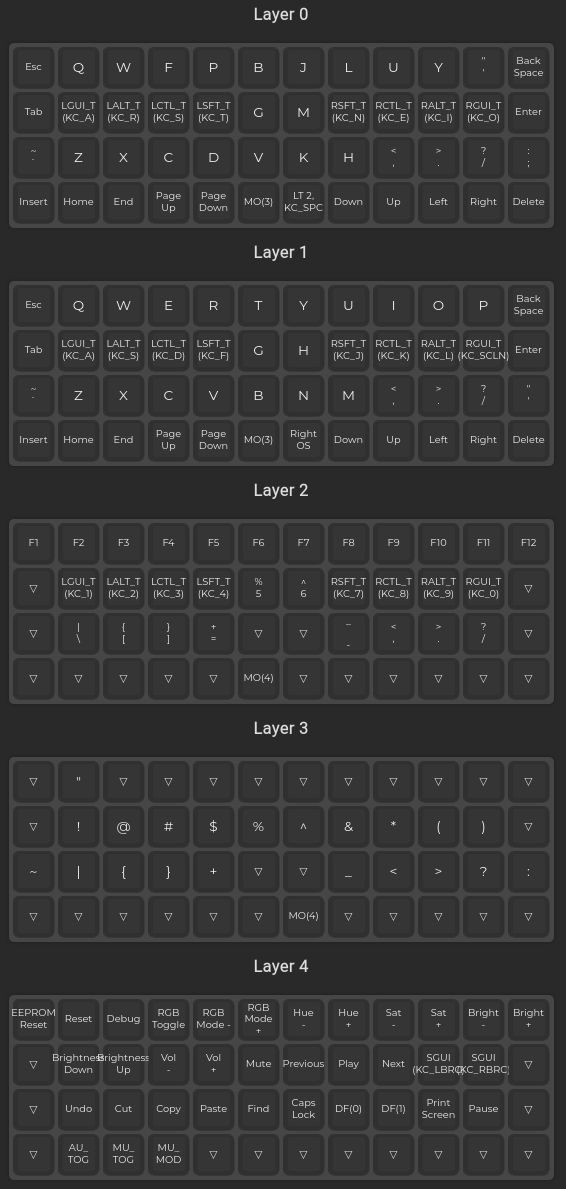
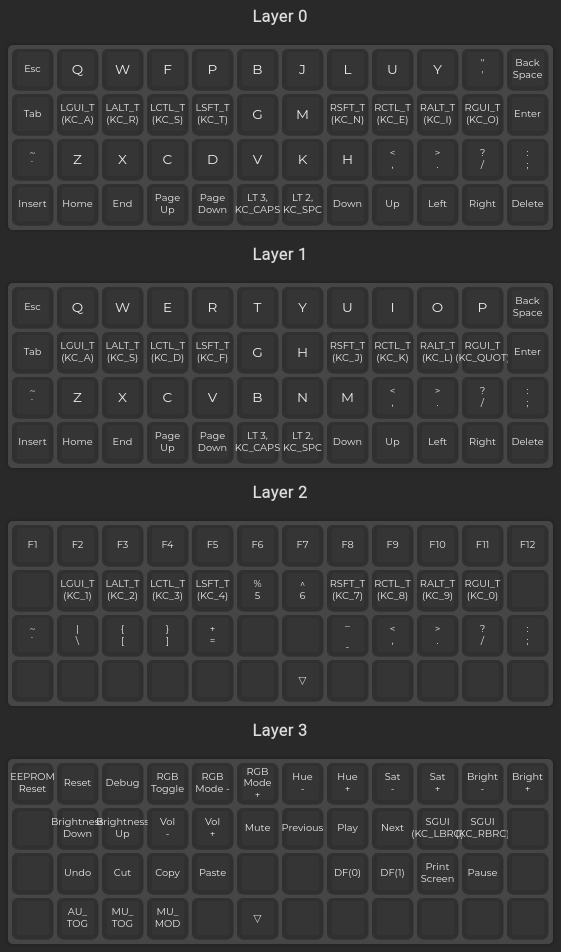
Single symbol/num layer
- Fixup caps lock location (awesome idea)

diff --git a/keymap.c b/keymap.c
@@ -7,9 +7,8 @@
  */
 
 const uint16_t PROGMEM keymaps[][MATRIX_ROWS][MATRIX_COLS] = {
-	[0] = LAYOUT_ortho_4x12(KC_ESC, KC_Q, KC_W, KC_F, KC_P, KC_B, KC_J, KC_L, KC_U, KC_Y, KC_QUOT, KC_BSPC, KC_TAB, LGUI_T(KC_A), LALT_T(KC_R), LCTL_T(KC_S), LSFT_T(KC_T), KC_G, KC_M, RSFT_T(KC_N), RCTL_T(KC_E), RALT_T(KC_I), RGUI_T(KC_O), KC_ENT, KC_GRV, KC_Z, KC_X, KC_C, KC_D, KC_V, KC_K, KC_H, KC_COMM, KC_DOT, KC_SLSH, KC_SCLN, KC_INS, KC_HOME, KC_END, KC_PGUP, KC_PGDN, MO(3), LT(2,KC_SPC), KC_DOWN, KC_UP, KC_LEFT, KC_RGHT, KC_DEL),
-	[1] = LAYOUT_ortho_4x12(KC_ESC, KC_Q, KC_W, KC_E, KC_R, KC_T, KC_Y, KC_U, KC_I, KC_O, KC_P, KC_BSPC, KC_TAB, LGUI_T(KC_A), LALT_T(KC_S), LCTL_T(KC_D), LSFT_T(KC_F), KC_G, KC_H, RSFT_T(KC_J), RCTL_T(KC_K), RALT_T(KC_L), RGUI_T(KC_SCLN), KC_ENT, KC_GRV, KC_Z, KC_X, KC_C, KC_V, KC_B, KC_N, KC_M, KC_COMM, KC_DOT, KC_SLSH, KC_QUOT, KC_INS, KC_HOME, KC_END, KC_PGUP, KC_PGDN, MO(3), KC_RGUI, KC_DOWN, KC_UP, KC_LEFT, KC_RGHT, KC_DEL),
-	[2] = LAYOUT_ortho_4x12(KC_F1, KC_F2, KC_F3, KC_F4, KC_F5, KC_F6, KC_F7, KC_F8, KC_F9, KC_F10, KC_F11, KC_F12, KC_TRNS, LGUI_T(KC_1), LALT_T(KC_2), LCTL_T(KC_3), LSFT_T(KC_4), KC_5, KC_6, RSFT_T(KC_7), RCTL_T(KC_8), RALT_T(KC_9), RGUI_T(KC_0), KC_TRNS, KC_TRNS, KC_BSLS, KC_LBRC, KC_RBRC, KC_EQL, KC_TRNS, KC_TRNS, KC_MINS, KC_COMM, KC_DOT, KC_SLSH, KC_TRNS, KC_TRNS, KC_TRNS, KC_TRNS, KC_TRNS, KC_TRNS, MO(4), KC_TRNS, KC_TRNS, KC_TRNS, KC_TRNS, KC_TRNS, KC_TRNS),
-	[3] = LAYOUT_ortho_4x12(KC_TRNS, KC_DQUO, KC_TRNS, KC_TRNS, KC_TRNS, KC_TRNS, KC_TRNS, KC_TRNS, KC_TRNS, KC_TRNS, KC_TRNS, KC_TRNS, KC_TRNS, KC_EXLM, KC_AT, KC_HASH, KC_DLR, KC_PERC, KC_CIRC, KC_AMPR, KC_ASTR, KC_LPRN, KC_RPRN, KC_TRNS, KC_TILD, KC_PIPE, KC_LCBR, KC_RCBR, KC_PLUS, KC_TRNS, KC_TRNS, KC_UNDS, KC_LT, KC_GT, KC_QUES, KC_COLN, KC_TRNS, KC_TRNS, KC_TRNS, KC_TRNS, KC_TRNS, KC_TRNS, MO(4), KC_TRNS, KC_TRNS, KC_TRNS, KC_TRNS, KC_TRNS),
-	[4] = LAYOUT_ortho_4x12(EEP_RST, RESET, DEBUG, RGB_TOG, RGB_RMOD, RGB_MOD, RGB_HUD, RGB_HUI, RGB_SAD, RGB_SAI, RGB_VAD, RGB_VAI, KC_TRNS, KC_BRID, KC_BRIU, KC_VOLD, KC_VOLU, KC_MUTE, KC_MPRV, KC_MPLY, KC_MNXT, SGUI(KC_LBRC), SGUI(KC_RBRC), KC_TRNS, KC_TRNS, KC_UNDO, KC_CUT, KC_COPY, KC_PSTE, KC_FIND, KC_CAPS, DF(0), DF(1), KC_PSCR, KC_PAUS, KC_TRNS, KC_TRNS, AU_TOG, MU_TOG, MU_MOD, KC_TRNS, KC_TRNS, KC_TRNS, KC_TRNS, KC_TRNS, KC_TRNS, KC_TRNS, KC_TRNS)
+	[0] = LAYOUT_ortho_4x12(KC_ESC, KC_Q, KC_W, KC_F, KC_P, KC_B, KC_J, KC_L, KC_U, KC_Y, KC_QUOT, KC_BSPC, KC_TAB, LGUI_T(KC_A), LALT_T(KC_R), LCTL_T(KC_S), LSFT_T(KC_T), KC_G, KC_M, RSFT_T(KC_N), RCTL_T(KC_E), RALT_T(KC_I), RGUI_T(KC_O), KC_ENT, KC_GRV, KC_Z, KC_X, KC_C, KC_D, KC_V, KC_K, KC_H, KC_COMM, KC_DOT, KC_SLSH, KC_SCLN, KC_INS, KC_HOME, KC_END, KC_PGUP, KC_PGDN, LT(3,KC_CAPS), LT(2,KC_SPC), KC_DOWN, KC_UP, KC_LEFT, KC_RGHT, KC_DEL),
+	[1] = LAYOUT_ortho_4x12(KC_ESC, KC_Q, KC_W, KC_E, KC_R, KC_T, KC_Y, KC_U, KC_I, KC_O, KC_P, KC_BSPC, KC_TAB, LGUI_T(KC_A), LALT_T(KC_S), LCTL_T(KC_D), LSFT_T(KC_F), KC_G, KC_H, RSFT_T(KC_J), RCTL_T(KC_K), RALT_T(KC_L), RGUI_T(KC_QUOT), KC_ENT, KC_GRV, KC_Z, KC_X, KC_C, KC_V, KC_B, KC_N, KC_M, KC_COMM, KC_DOT, KC_SLSH, KC_SCLN, KC_INS, KC_HOME, KC_END, KC_PGUP, KC_PGDN, LT(3,KC_CAPS), LT(2,KC_SPC), KC_DOWN, KC_UP, KC_LEFT, KC_RGHT, KC_DEL),
+	[2] = LAYOUT_ortho_4x12(KC_F1, KC_F2, KC_F3, KC_F4, KC_F5, KC_F6, KC_F7, KC_F8, KC_F9, KC_F10, KC_F11, KC_F12, KC_NO, LGUI_T(KC_1), LALT_T(KC_2), LCTL_T(KC_3), LSFT_T(KC_4), KC_5, KC_6, RSFT_T(KC_7), RCTL_T(KC_8), RALT_T(KC_9), RGUI_T(KC_0), KC_NO, KC_GRV, KC_BSLS, KC_LBRC, KC_RBRC, KC_EQL, KC_NO, KC_NO, KC_MINS, KC_COMM, KC_DOT, KC_SLSH, KC_SCLN, KC_NO, KC_NO, KC_NO, KC_NO, KC_NO, KC_NO, KC_TRNS, KC_NO, KC_NO, KC_NO, KC_NO, KC_NO),
+	[3] = LAYOUT_ortho_4x12(EEP_RST, RESET, DEBUG, RGB_TOG, RGB_RMOD, RGB_MOD, RGB_HUD, RGB_HUI, RGB_SAD, RGB_SAI, RGB_VAD, RGB_VAI, KC_NO, KC_BRID, KC_BRIU, KC_VOLD, KC_VOLU, KC_MUTE, KC_MPRV, KC_MPLY, KC_MNXT, SGUI(KC_LBRC), SGUI(KC_RBRC), KC_NO, KC_NO, KC_UNDO, KC_CUT, KC_COPY, KC_PSTE, KC_NO, KC_NO, DF(0), DF(1), KC_PSCR, KC_PAUS, KC_NO, KC_NO, AU_TOG, MU_TOG, MU_MOD, KC_NO, KC_TRNS, KC_NO, KC_NO, KC_NO, KC_NO, KC_NO, KC_NO)
 };
